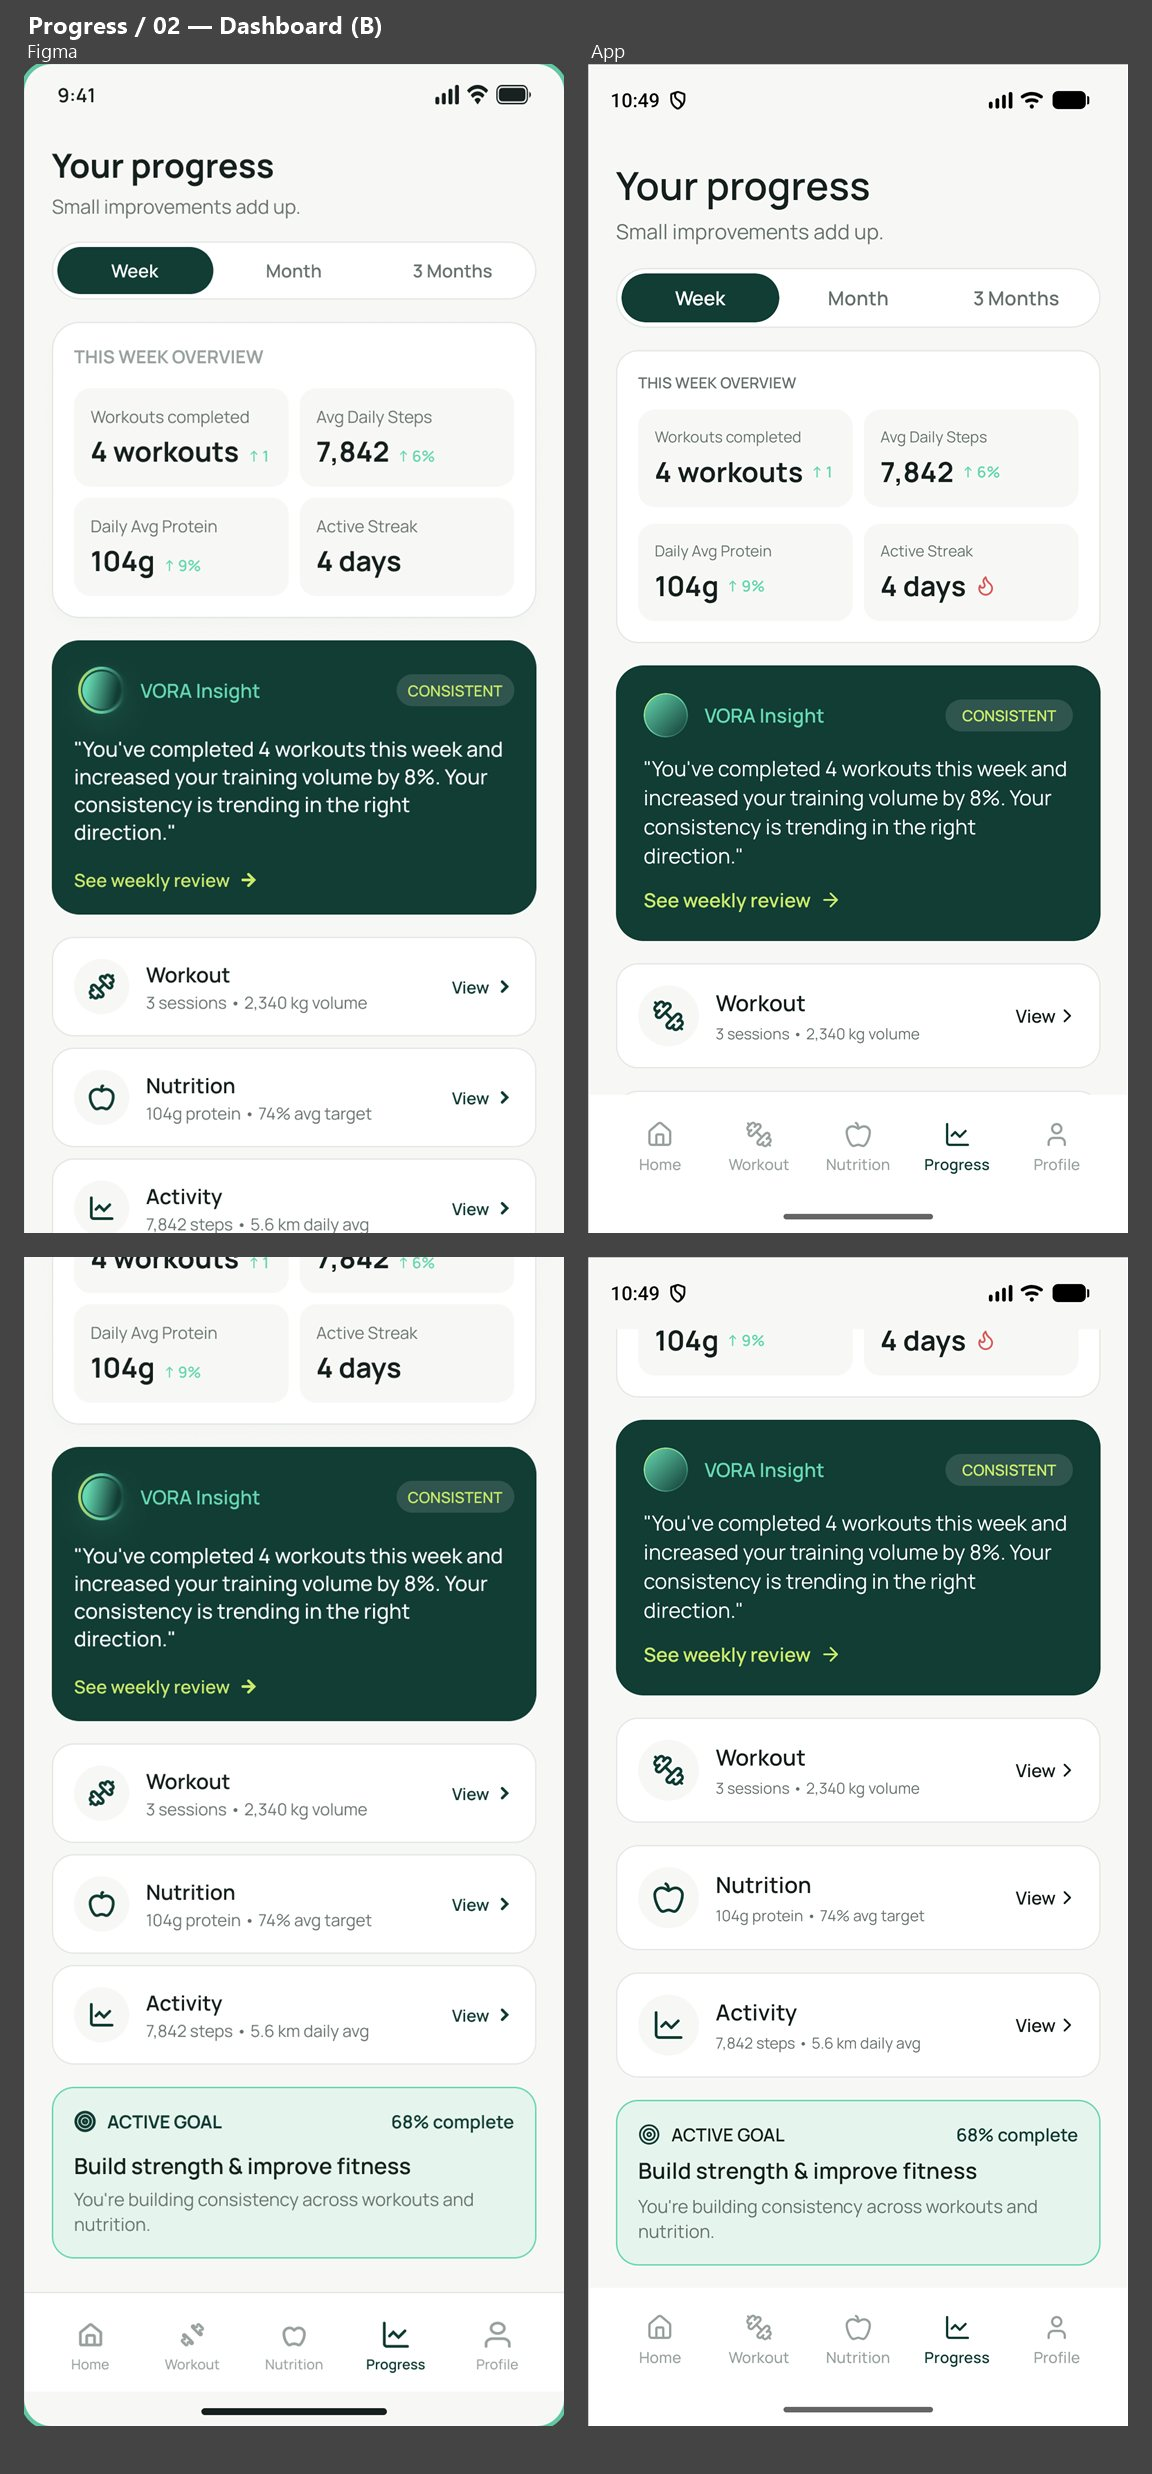
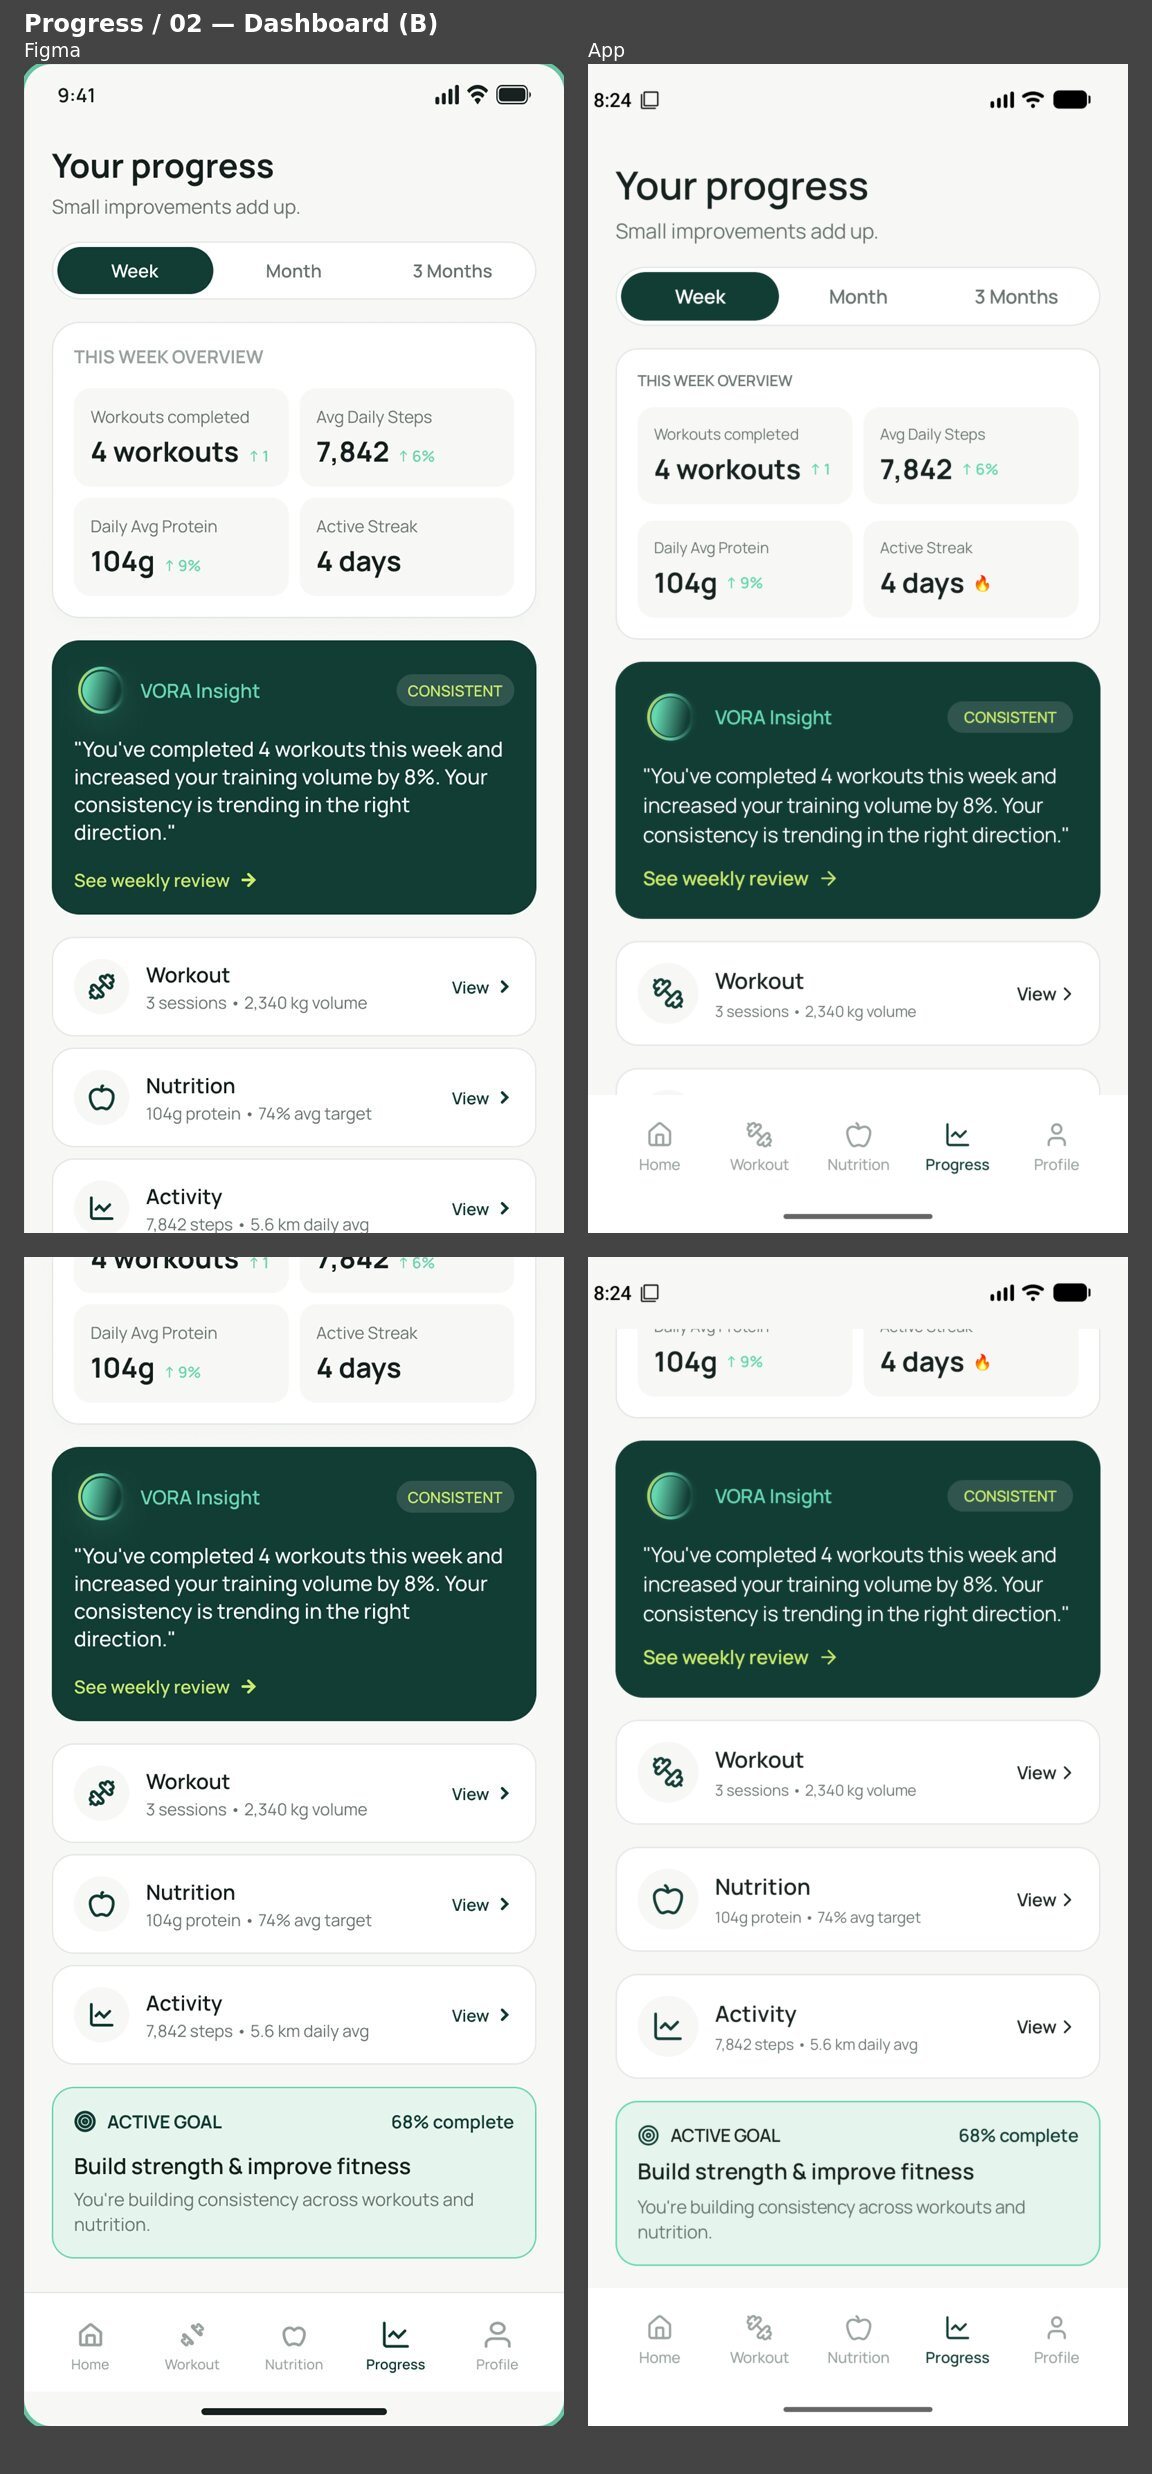
Regenerate the Figma comparisons after the five phases

diff --git a/docs/comparisons/README.md b/docs/comparisons/README.md
@@ -10,15 +10,15 @@ Las cinco comparaciones que pide la entrega, una por área y dueño:
 | 4 | Nutrition / 01 · Dashboard | `1:730` | D | `04-nutrition-dashboard.jpg` |
 | 5 | Progress / 02 · Dashboard | `1:1775` | B | `05-progress-dashboard.jpg` |
 
-**Estado:** generadas el 26/10 con `main` (incluye #20, #22, #24, #25, #27, #28, #29 y #33), en el emulador de referencia de Figma (390 × 844 dp) contra el servidor publicado. Las diferencias que muestran están anotadas en [QA.md](../QA.md).
+**Estado:** regeneradas el 27/10 con `main` después de las fases 1 a 5 (#38, #39, #40, #41, #42 y #43), en un emulador de 390 × 844 dp. El servidor publicado no respondía ese día, así que Workout se capturó con la caché de Room sembrada con los entrenamientos del mock (el primero es «Upper Body Strength», `MODERATE`, 5 ejercicios) y Nutrition con las tres comidas de demostración de Room. Los fragmentos de Figma son los mismos de la versión anterior: el diseño no cambió. Las diferencias que quedan están anotadas en [QA.md](../QA.md).
 
 | Comparación | Lectura rápida |
 |---|---|
-| ![](01-home-dashboard.jpg) | Home: estructura y contenido coinciden; faltan el orbe chico del panel de VORA y el punto de la campana. |
-| ![](02-voice-listening.jpg) | Asistente: coincide en composición, colores, orbe y tipografía. |
-| ![](03-workout-dashboard.jpg) | Workout: coincide con Figma; el catálogo de RF01 se suma como sección debajo. |
-| ![](04-nutrition-dashboard.jpg) | Nutrition: misma estructura; la fila de macros se desarma con valores reales y los botones de la tarjeta de VORA no tienen íconos. |
-| ![](05-progress-dashboard.jpg) | Progress: prácticamente idéntico. |
+| ![](01-home-dashboard.jpg) | Home: estructura y contenido coinciden; el orbe del panel de VORA y el punto de la campana ya están. La app queda algo más alta que Figma por el espaciado entre tarjetas. |
+| ![](02-voice-listening.jpg) | Asistente: coincide en composición, colores, orbe y tipografía; la transcripción usa comillas tipográficas. |
+| ![](03-workout-dashboard.jpg) | Workout: coincide con Figma; el catálogo ya no se suma debajo (vive en Weekly Plan). Los días de la semana sin entrenar («Zzz») van sin el círculo gris de Figma. |
+| ![](04-nutrition-dashboard.jpg) | Nutrition: las macros ya van en tres columnas y los botones de la tarjeta de VORA llevan ícono. El total es la suma real de Room (1180 kcal, sin separador de miles) y no el 1,420 de ejemplo de Figma. |
+| ![](05-progress-dashboard.jpg) | Progress: prácticamente idéntico; el 🔥 de la racha se ve en la app y no en el export de Figma. |
 
 ## Cómo generarlas
 
@@ -27,6 +27,7 @@ Las cinco comparaciones que pide la entrega, una por área y dueño:
    adb shell wm size 1170x2532
    adb shell wm density 480
    ```
+   Con un AVD de 420 dpi y 1080 px de ancho (Pixel 9) se llega al mismo tamaño en dp con `wm size 1080x2337` y `wm density 443`.
    Al terminar: `adb shell wm size reset` y `adb shell wm density reset`.
 2. **Datos.** Workout necesita el catálogo del mock. Si el servidor publicado no responde, usar el mock local (ver README › Servidor) con `adb reverse tcp:8000 tcp:8000` y `BASE_URL = "http://127.0.0.1:8000/"` **sin commitear**.
 3. **Capturas de la app.** Entrar en modo demostración y capturar cada pantalla con `adb exec-out screencap -p > nombre.png`. Para las pantallas más largas que el viewport (Home, Workout, Nutrition, Progress), una captura arriba y otra al final del scroll.
@@ -36,3 +37,8 @@ Las cinco comparaciones que pide la entrega, una por área y dueño:
    .\compose.ps1 -Figma figma\home.png -App app\home_top.png,app\home_bottom.png -Out 01-home-dashboard.jpg -Title "Home / 01 — Dashboard (A)"
    ```
    Cada imagen pone Figma a la izquierda y la app a la derecha, a la misma escala; con dos capturas, la fila de abajo compara el final del scroll contra el final del frame.
+
+   En Linux o macOS, con ImageMagick 7, el equivalente es `compose.sh` (mismos parámetros en forma de opciones):
+   ```bash
+   ./compose.sh -f figma/home.png -a app/home_top.png -a app/home_bottom.png -o 01-home-dashboard.jpg -t "Home / 01 — Dashboard (A)"
+   ```
